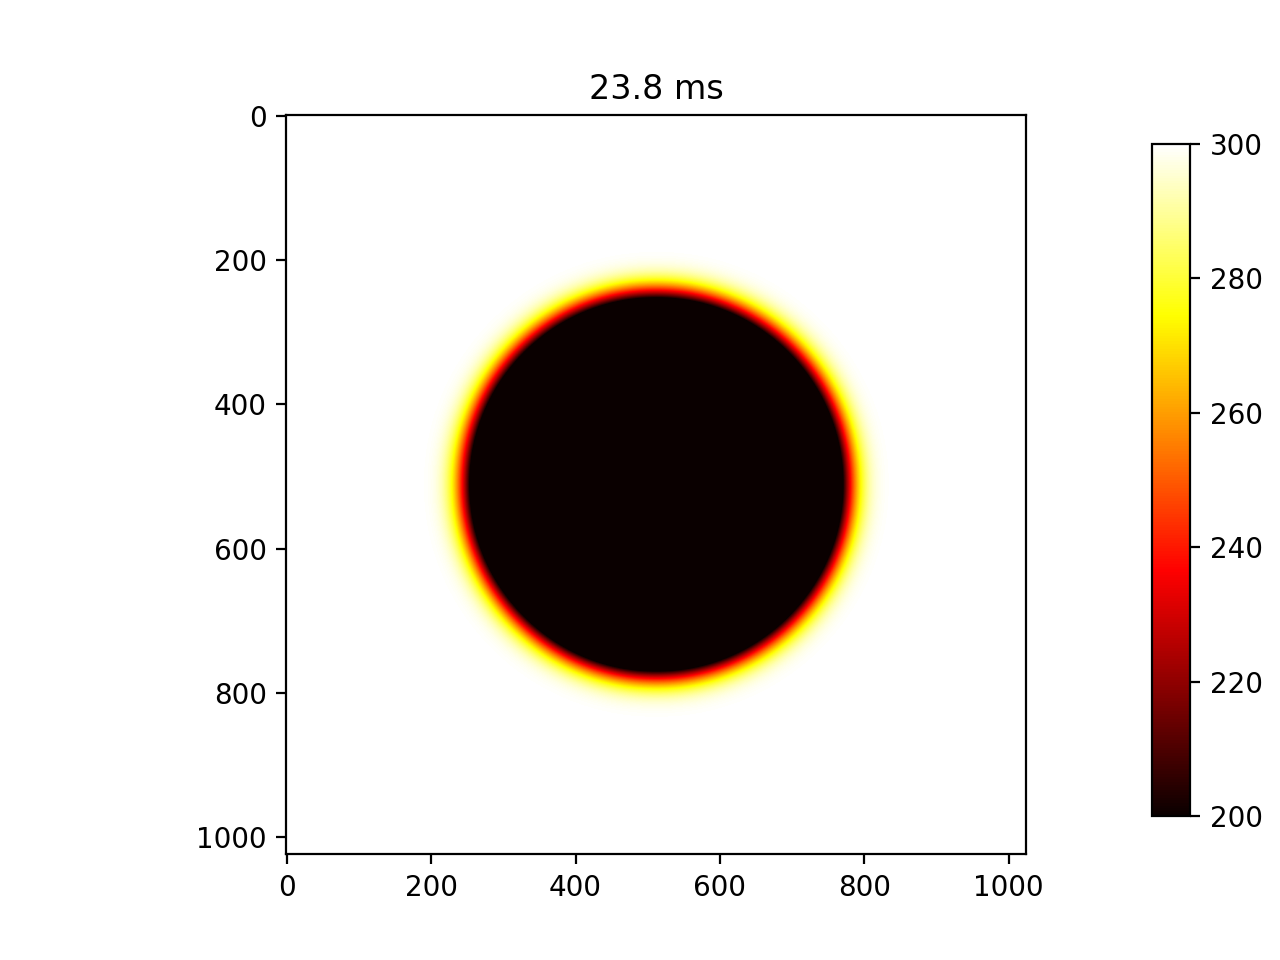
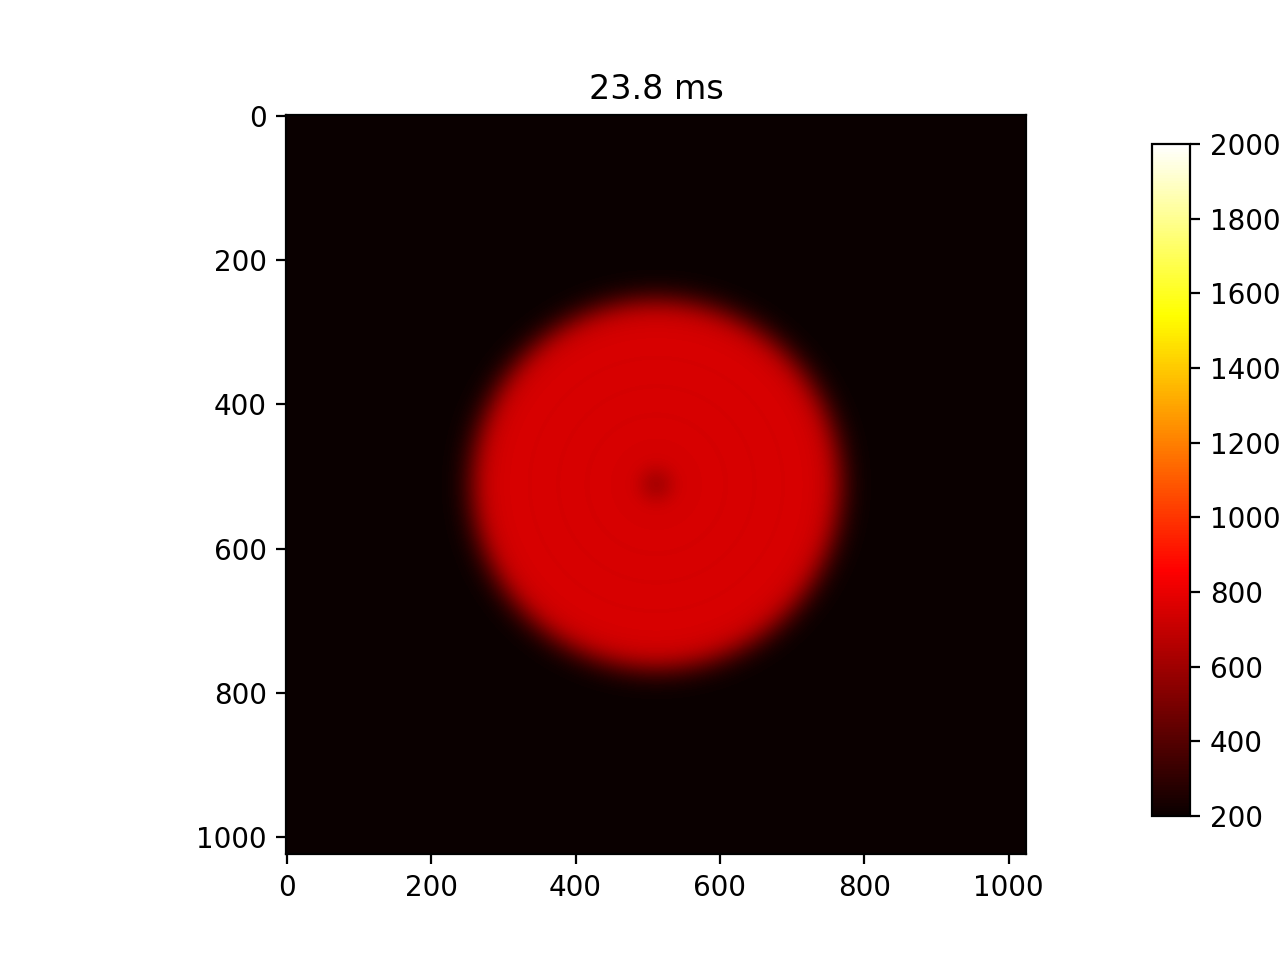
Added print statements

diff --git a/ps4/parallel_2D_diffusion.py b/ps4/parallel_2D_diffusion.py
@@ -9,11 +9,11 @@ size = comm.Get_size()
 
 # plate size, mm
 w = h = 20.48
-print(f"plate size: {w}x{h} mm")
+print(f"[P{rank}] plate size: {w}x{h} mm")
 
 # grid size
 nx = ny = 1024
-print(f"grid size:{nx}x{ny}")
+print(f"[P{rank}] grid size:{nx}x{ny}")
 
 # parallel params
 chunk = int(ny / size)  # parallelize along y axis
@@ -33,12 +33,12 @@ dx, dy = w/nx, h/ny
 
 # Thermal diffusivity of steel, mm^2/s
 D = 4.2
-print(f"thermal diffusivity: {D}")
+print(f"[P{rank}] thermal diffusivity: {D}")
 
 # time
 nsteps = 1001
 dt = dx**2 * dy**2 / (2 * D * (dx**2 + dy**2))
-print(f"dt: {dt}")
+print(f"[P{rank}] dt: {dt}")
 
 # plot
 # plot_ts = [0, 40, 90]
@@ -49,7 +49,7 @@ n_rows = top_pad + chunk + bottom_pad
 u = np.zeros((n_rows, nx))
 
 # Initialization - circle osf radius r centred at (cx,cy) (mm)
-T_hot = 300
+T_hot = 2000
 T_cool = 200
 r = 5.12
 cx = w / 2
@@ -59,9 +59,9 @@ for i in range(nx):
         p2 = (i*dx - cx)**2 + ((j+y_idx_offset)*dy - cy)**2
         if p2 < r**2:
             radius = np.sqrt(p2)
-            u[j, i] = T_cool * np.cos(4*radius)**4
+            u[j, i] = T_hot * np.cos(4*radius)**4
         else:
-            u[j, i] = T_hot
+            u[j, i] = T_cool
 
 
 def evolve_2d_diff_eq(u):
@@ -71,7 +71,7 @@ def evolve_2d_diff_eq(u):
         + (u[1:-1, 2:] - 2*u[1:-1, 1:-1] + u[1:-1, :-2])/dx**2)
     return u
 
-
+print(f'[P{rank}] Running for {nsteps} time steps...')
 # Main program
 for ts in range(nsteps):
     # communication
@@ -82,6 +82,9 @@ for ts in range(nsteps):
     if rank != size-1:
         comm.Send(u[-2], dest=rank+1, tag=12)
         comm.Recv(u[-1], source=rank+1, tag=11)
+
+    if ts % 100 == 0:
+        print(f'[P{rank}] evolving time step {ts}')
 
     u = evolve_2d_diff_eq(u)
 
@@ -99,6 +102,8 @@ for ts in range(nsteps):
             cbar_ax.set_xlabel('K', labelpad=20)
             fig.colorbar(im, cax=cbar_ax)
             plt.savefig("2d_iter_{}.png".format(ts), dpi=200)
+            print(f'saving step {ts}')
             # plt.show()
             plt.clf()
 
+#  !mpiexec -n 1 python parallel_2D_diffusion.py

diff --git a/ps4/2d_diffusion_equation.py b/ps4/2d_diffusion_equation.py
@@ -30,7 +30,7 @@ u0 = np.zeros((ny, nx))
 # u = u0.copy()
 
 # Initialization - circle of radius r centred at (cx,cy) (mm)
-Tcool, Thot = 200, 300
+Tcool, Thot = 200, 2000
 r, cx, cy = 5.12, w/2, h/2
 r2 = r**2
 for i in range(nx):
@@ -38,9 +38,9 @@ for i in range(nx):
         p2 = (i*dx-cx)**2 + (j*dy-cy)**2
         if p2 < r2:
             radius = np.sqrt(p2)
-            u0[j,i] = Tcool*np.cos(4*radius)**4
+            u0[j, i] = Thot * np.cos(4*radius)**4
         else:
-            u0[j,i] = Thot
+            u0[j, i] = Tcool
 
 
 def do_timestep(u0):
